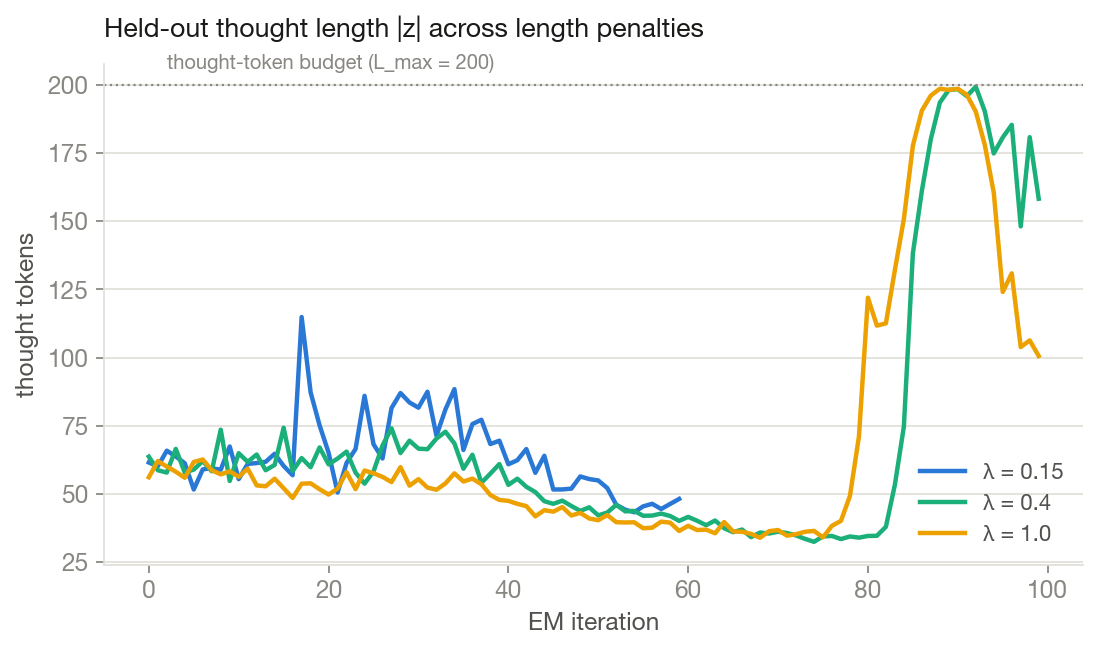
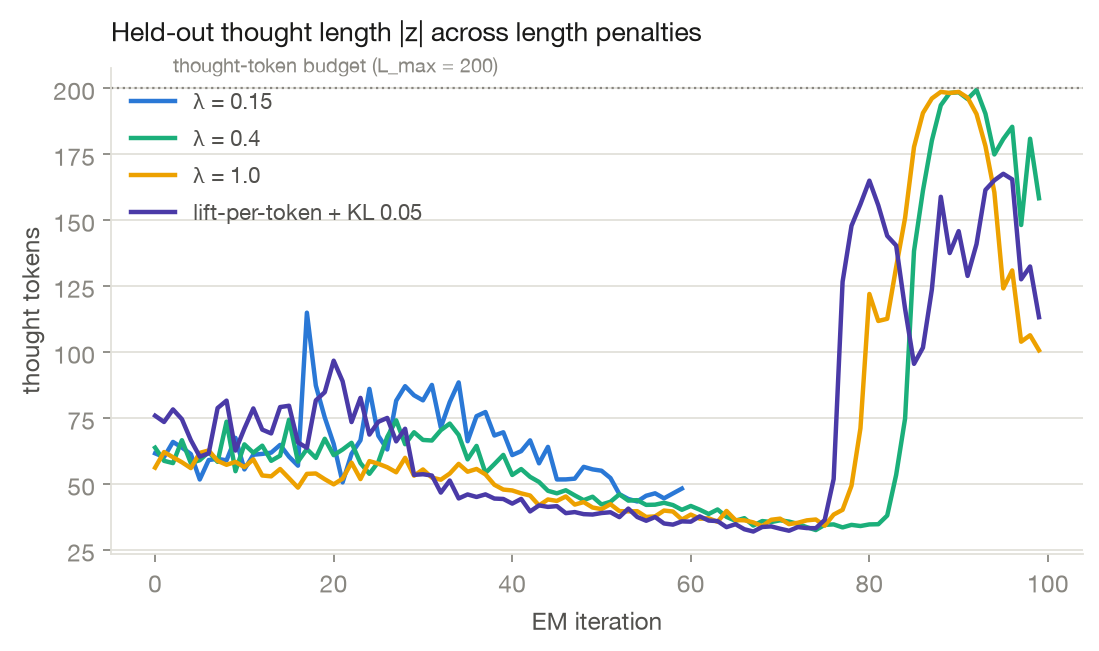
add length penalty exp

Changed region(s): [[0.0, 0.0307, 0.99, 0.9831]]

diff --git a/scripts/act_prm_length_penalty.py b/scripts/act_prm_length_penalty.py
@@ -248,7 +248,17 @@ async def score_thought(sampling_client, templater, scoring_state, thought,
     full_logprobs = await sampling_client.compute_logprobs_async(
         types.ModelInput.from_ints(full_tokens)
     )
-    action_lp = np.array([lp for lp in full_logprobs[-n_action:]], dtype=np.float64)
+    base_logprobs = None
+    if base_client is not None:
+        base_logprobs = await base_client.compute_logprobs_async(
+            types.ModelInput.from_ints(full_tokens)
+        )
+    # frozen-scorer mode: the reward likelihood comes from the base model, so the
+    # policy can't inflate its own reward by co-adapting the action head to the
+    # thought pattern; datum logprobs stay the policy's (importance sampling).
+    score_logprobs = (base_logprobs if base_logprobs is not None
+                      and getattr(cfg, "score_with_base", False) else full_logprobs)
+    action_lp = np.array([lp for lp in score_logprobs[-n_action:]], dtype=np.float64)
     likelihood = float(np.exp(action_lp.mean()))            # in (0, 1]
     sum_action_lp = float(action_lp.sum())                  # total log p(x | s, z)
 
@@ -259,11 +269,8 @@ async def score_thought(sampling_client, templater, scoring_state, thought,
 
     # per-token KL of the *thought* against the frozen base model (KL anchor)
     kl_mean = 0.0
-    if base_client is not None:
+    if base_logprobs is not None:
         n_thought = max(1, len(prefix_tokens) - prefix_len)
-        base_logprobs = await base_client.compute_logprobs_async(
-            types.ModelInput.from_ints(full_tokens)
-        )
         cur = np.array([lp or 0.0 for lp in full_logprobs[prefix_len: prefix_len + n_thought]])
         base = np.array([lp or 0.0 for lp in base_logprobs[prefix_len: prefix_len + n_thought]])
         kl_mean = float((cur - base).mean())
@@ -482,10 +489,10 @@ async def train(cfg):
             cfg.model, rank=cfg.lora_rank
         )
     base_client = None
-    if cfg.reward_method == "lift" and cfg.kl_coef > 0:
+    if (cfg.reward_method == "lift" and cfg.kl_coef > 0) or cfg.score_with_base:
         base_client = service_client.create_sampling_client(base_model=cfg.model)
     print(f"training client: {cfg.model} (LoRA r={cfg.lora_rank}), "
-          f"reward={cfg.reward_method} "
+          f"reward={cfg.reward_method}{' [scored by frozen base]' if cfg.score_with_base else ''} "
           f"({'lift_c=' + str(cfg.lift_c) + ', eps=' + str(cfg.select_epsilon) + ', kl=' + str(cfg.kl_coef) if cfg.reward_method == 'lift' else 'lambda_len=' + str(cfg.length_penalty)}), "
           f"G={cfg.group_size}, iterations {cfg.start_iteration}..{cfg.em_iterations}", flush=True)
 
@@ -623,13 +630,15 @@ async def demo(cfg, sampler_path=None, trajs=None, templater=None, service_clien
         sampling_client = service_client.create_sampling_client(base_model=cfg.model)
         print(f"sampler: base {cfg.model} (no trained weights given)")
 
+    base_client = (service_client.create_sampling_client(base_model=cfg.model)
+                   if getattr(cfg, "score_with_base", False) else None)
     trajs = trajs or load_trajectories(1, cfg.max_traj_timestep)
     traj = trajs[0]
     _, metrics = await rollout_trajectory(
         sampling_client, templater,
         {"messages": traj["messages"], "system_prompt": traj["system_prompt"]},
         argparse.Namespace(**{**vars(cfg), "max_steps_per_traj": 1}),
-        verbose=False,
+        verbose=False, base_client=base_client,
     )
     m = metrics[0]
     print("\nquestion:", traj["messages"][0]["content"][:220])
@@ -665,6 +674,10 @@ def main():
                    help="lift method: commit the shortest thought within eps of best likelihood")
     p.add_argument("--kl-coef", type=float, default=0.05,
                    help="lift method: per-token KL-to-base-model penalty coefficient")
+    p.add_argument("--score-with-base", action="store_true",
+                   help="compute the reward likelihood p(x|s,z) with the FROZEN base "
+                        "model instead of the current policy (frozen scorer: kills the "
+                        "self-scored reward co-adaptation loop / babble hack)")
     p.add_argument("--max-thought-tokens", type=int, default=200)
     p.add_argument("--num-trajectories", type=int, default=2)
     p.add_argument("--eval-trajectories", type=int, default=1,

diff --git a/scripts/plot_lambda_sweep.py b/scripts/plot_lambda_sweep.py
@@ -26,7 +26,7 @@ for arg in (sys.argv[1:] or [
 
 OUT = Path("assets/img")
 INK, MUTED, GRID = "#52514e", "#898781", "#e1e0d9"
-COLORS = ["#2a78d6", "#1baf7a", "#eda100"]   # λ ascending: blue, aqua, yellow
+COLORS = ["#2a78d6", "#1baf7a", "#eda100", "#4a3aa7"]   # λ ascending + lift variant
 
 plt.rcParams.update({
     "font.family": "Helvetica Neue, Helvetica, Arial, sans-serif",
@@ -56,7 +56,7 @@ def series(log, key, sub):
 fig, ax = plt.subplots(figsize=(7, 4.2), dpi=160)
 for (label, log), c in zip(runs, COLORS):
     xs, ys = series(log, "mean_likelihood", "eval")
-    ax.plot(xs, ys, color=c, lw=2, label=f"λ = {label}")
+    ax.plot(xs, ys, color=c, lw=2, label=f"λ = {label}" if label[0].isdigit() else label)
 style(ax, "Held-out action likelihood p(x | s, z) across length penalties",
       "mean action-token likelihood")
 fig.tight_layout()
@@ -65,7 +65,7 @@ fig.savefig(OUT / "lenpen-sweep-likelihood.png", bbox_inches="tight")
 fig, ax = plt.subplots(figsize=(7, 4.2), dpi=160)
 for (label, log), c in zip(runs, COLORS):
     xs, ys = series(log, "mean_thought_tokens", "eval")
-    ax.plot(xs, ys, color=c, lw=2, label=f"λ = {label}")
+    ax.plot(xs, ys, color=c, lw=2, label=f"λ = {label}" if label[0].isdigit() else label)
 ax.axhline(200, color=MUTED, lw=1, ls=":")
 ax.annotate("thought-token budget (L_max = 200)", xy=(1, 200), xytext=(2, 206),
             fontsize=9, color=MUTED)

diff --git a/LENGTH_PENALTY.md b/LENGTH_PENALTY.md
@@ -203,6 +203,31 @@ both objectives saturate, continued policy-gradient pressure with no KL anchor f
 mode; (iii) early stopping on held-out likelihood is exactly the right guardrail — the λ=0.15 run
 never met the monster.
 
+## A better reward? Lift-per-token + lexicographic selection + KL anchor
+
+Following the collapse analysis, we designed and ran a fourth variant (violet in the sweep plots
+above, `runs/length_penalty_qwen3_8b_lift.json`, `--reward-method lift`):
+
+1. **Lift-per-token reward**: $r(z) = \big[\log p(x \mid s, z) - \log p(x \mid s, \varnothing)\big] / (|z| + 15) - 0.05\,\mathrm{KL}$
+   — the thought is rewarded for what it *adds* over having no thought, per token spent;
+2. **Lexicographic selection**: the committed ẑ is the *shortest* candidate within 2% of the
+   group's best likelihood — length breaks ties, never trades against likelihood;
+3. **Small KL anchor** (coef 0.05, reward-level, vs the frozen base model).
+
+Results: the **best of the four runs while it lasted** — fastest held-out likelihood climb
+(≈+0.05–0.1 ahead through iterations 10–45, peaking ~0.92 at iteration ~42 vs ~0.90 at ~55 for the
+additive penalties), **no phase-1 length bump** (compression is monotone from the start, reaching
+~33-token thoughts by iteration 45), and the highest peak with the shortest thoughts. But
+`kl=0.05` only *delayed* the endgame: past iteration ~77 the same babble attractor took over
+(this run's filler of choice: *"category category category insights category…"* — each collapsed
+run invents its own token), likelihood cratering to ~0.73 before the usual partial recovery.
+
+Verdict: (1)+(2) demonstrably improve the reward design; (3) at 0.05 is too weak once the policy's
+entropy is exhausted — a stronger anchor, entropy bonus, or simply early stopping (which would have
+exited at the iteration-42 peak: better and earlier than any additive run) remains necessary.
+Amusingly, the lexicographic rule stayed on duty *through* the collapse: among eight babble
+candidates it still dutifully committed the shortest one.
+
 ### Thoughts across λ, same tasks, same checkpoints
 
 _Selected thought ẑ (penalized-reward argmax of G=8) for the **first step** of shared held-out tasks, under different length penalties λ. “—” = run already finished (λ=0.15 early-stopped at iter 59)._

diff --git a/README.md b/README.md
@@ -207,6 +207,13 @@ reward-hacks p≈0.85 on the logged action while held-out likelihood craters 0.9
 penalty, earlier collapse — and the λ=0.15 run's early stopping (iteration 59) exited safely at the
 plateau. Full analysis in [LENGTH_PENALTY.md](LENGTH_PENALTY.md).
 
+**Fourth variant — lift-per-token + lexicographic selection + KL anchor** (violet in the plots):
+rewarding thoughts by likelihood-*lift over no-thought* per token, committing the shortest
+near-best candidate, and anchoring to the base model with a small KL (0.05) gives the **fastest
+climb, highest peak (~0.92 @ iter 42), and earliest compression with no length bump** — but the
+small KL only delays the babble collapse (~iteration 77; this run's filler: *"category category
+insights…"*). Details in [LENGTH_PENALTY.md](LENGTH_PENALTY.md).
+
 <details>
 <summary><b>Cross-λ thought-evolution tables (same tasks, same checkpoints — click to expand)</b></summary>
 
